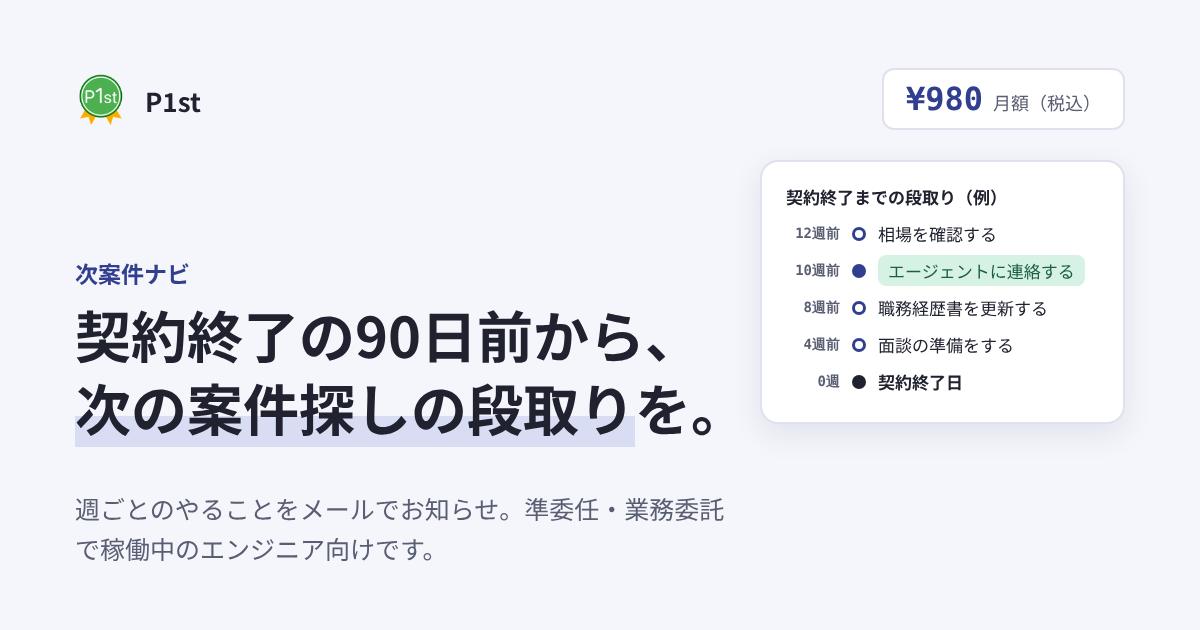
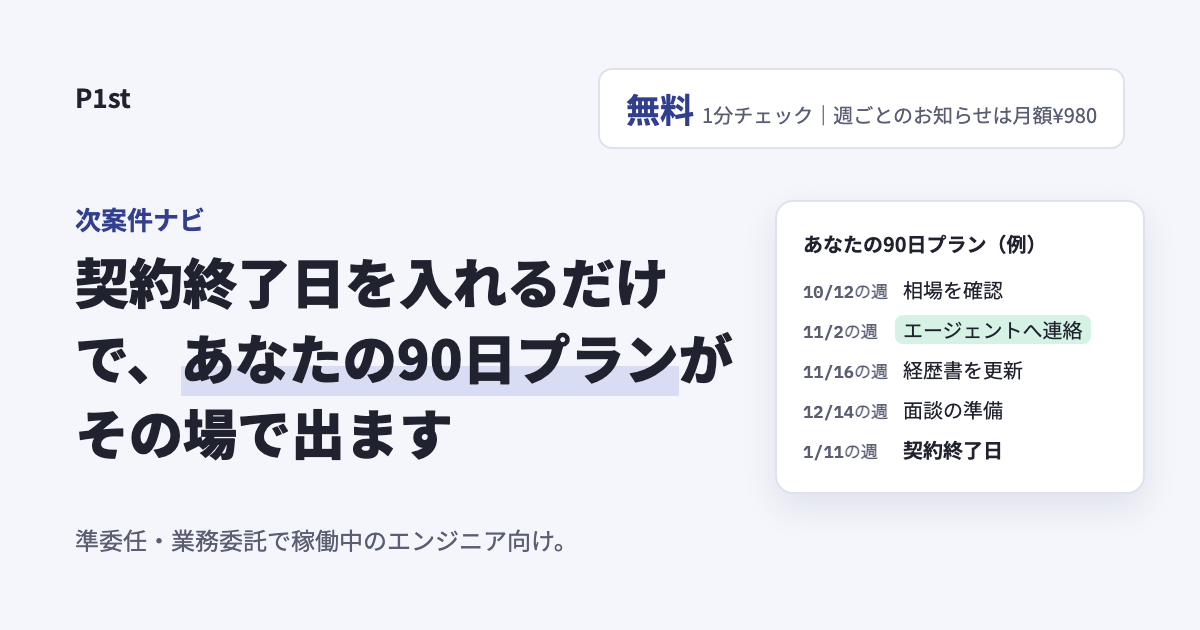
Align tsugianken-navi copy and og image with the free 1-minute check

diff --git a/tsugianken-navi/index.html b/tsugianken-navi/index.html
@@ -14,20 +14,20 @@
 <meta name="viewport" content="width=device-width, initial-scale=1.0">
 <link rel="icon" type="image/png" href="../favicon.png">
 <link rel="apple-touch-icon" href="../favicon.png">
-<title>次案件ナビ｜契約終了の90日前から、次の案件探しの段取りを週ごとに届けます。</title>
-<meta name="description" content="準委任・業務委託で稼働中のエンジニア向け。契約終了日を登録すると、相場の確認・エージェントへの連絡・職務経歴書の更新・面談の準備を、週ごとにメールでお知らせします。月額980円（税込）。案件の紹介や獲得の保証はしません。">
+<title>次案件ナビ｜契約終了日を入れるだけで、次の案件探しの90日プランがその場で出ます</title>
+<meta name="description" content="契約終了日を入れると、相場の確認・エージェントへの連絡・職務経歴書の更新・面談の準備の90日プランがその場で出ます（1分・無料）。週ごとのメールでのお知らせは月額980円（税込）。案件の紹介や獲得の保証はしません。">
 <meta property="og:type" content="website">
 <meta property="og:url" content="https://showcase.p1st.app/tsugianken-navi/">
 <meta property="og:site_name" content="P1st Startup Showcase">
 <meta property="og:locale" content="ja_JP">
-<meta property="og:title" content="次案件ナビ｜契約終了の90日前から、次の案件探しの段取りを週ごとに届けます。">
-<meta property="og:description" content="契約終了日を登録すると、相場の確認・エージェントへの連絡・職務経歴書の更新・面談の準備を、週ごとにメールでお知らせ。月額980円（税込）。案件の紹介や獲得の保証はしません。">
+<meta property="og:title" content="次案件ナビ｜契約終了日を入れるだけで、次の案件探しの90日プランがその場で出ます">
+<meta property="og:description" content="契約終了日を入れると、相場の確認・エージェントへの連絡・職務経歴書の更新・面談の準備の90日プランがその場で出ます（1分・無料）。週ごとのメールでのお知らせは月額980円（税込）。案件の紹介や獲得の保証はしません。">
 <meta property="og:image" content="https://showcase.p1st.app/og/tsugianken-navi.png">
 <meta property="og:image:width" content="1200">
 <meta property="og:image:height" content="630">
 <meta name="twitter:card" content="summary_large_image">
-<meta name="twitter:title" content="次案件ナビ｜契約終了の90日前から、次の案件探しの段取りを週ごとに届けます。">
-<meta name="twitter:description" content="契約終了日を登録すると、相場の確認・エージェントへの連絡・職務経歴書の更新・面談の準備を、週ごとにメールでお知らせ。月額980円（税込）。案件の紹介や獲得の保証はしません。">
+<meta name="twitter:title" content="次案件ナビ｜契約終了日を入れるだけで、次の案件探しの90日プランがその場で出ます">
+<meta name="twitter:description" content="契約終了日を入れると、相場の確認・エージェントへの連絡・職務経歴書の更新・面談の準備の90日プランがその場で出ます（1分・無料）。週ごとのメールでのお知らせは月額980円（税込）。案件の紹介や獲得の保証はしません。">
 <meta name="twitter:image" content="https://showcase.p1st.app/og/tsugianken-navi.png">
 <link rel="preconnect" href="https://fonts.googleapis.com">
 <link href="https://fonts.googleapis.com/css2?family=IBM+Plex+Mono:wght@500;600&family=Noto+Sans+JP:wght@400;500;700&display=swap" rel="stylesheet">
@@ -194,7 +194,7 @@
 <header class="top">
   <div class="container">
     <a class="logo" href="#top"><i>90</i>次案件ナビ</a>
-    <a class="nav-cta" href="#cta">月額980円で事前登録</a>
+    <a class="nav-cta" href="#cta">無料でプランを作る</a>
   </div>
 </header>
 
@@ -370,7 +370,7 @@
 <section>
   <div class="container">
     <div class="section-head">
-      <h2>次案件ナビ 月額980円（税込）</h2>
+      <h2>1分チェックは無料。週ごとのお知らせは月額980円（税込）。</h2>
     </div>
     <div class="pz">
       <div class="name">次案件ナビ（月額）</div>
@@ -381,7 +381,7 @@
         <li>いつでも解約できます。解約後は、次回以降の請求は発生しません</li>
       </ul>
     </div>
-    <p class="price-note">※ 正式リリース前のため、内容と料金は変更になる場合があります。事前登録された方には、リリース時に最初にご案内します。解約の方法は、リリース時にご案内します。</p>
+    <p class="price-note">※ 正式リリース前のため、内容と料金は変更になる場合があります。1分チェックをされた方には、リリース時に最初にご案内します。解約の方法は、リリース時にご案内します。</p>
   </div>
 </section>
 
@@ -400,15 +400,15 @@
     </details>
     <details>
       <summary>契約が複数ある場合は？</summary>
-      <p>最初は、1つの契約の終了日を登録する形を想定しています。複数の契約に対応するかは、事前登録いただいた方のご意見を見て決めます。</p>
+      <p>最初は、1つの契約の終了日を登録する形を想定しています。複数の契約に対応するかは、ご案内を希望された方のご意見を見て決めます。</p>
     </details>
     <details>
       <summary>通知はどのように届きますか？</summary>
       <p>登録のメールアドレスに、週1回、その週にやることをお知らせします。LINEなど、ほかの方法は、いまのところ予定していません。</p>
     </details>
     <details>
-      <summary>いつ課金されますか？解約できますか？</summary>
-      <p>事前登録の時点では課金されません。リリース後は月額980円（税込）で、いつでも解約できます。解約後は、次回以降の請求は発生しません。解約の方法は、リリース時にご案内します。</p>
+      <summary>どこから料金がかかりますか？解約できますか？</summary>
+      <p>1分チェック（90日プランの表示）は無料で、課金されません。週ごとのメールでのお知らせは、リリース後に月額980円（税込）で提供する予定で、いつでも解約できます。解約後は、次回以降の請求は発生しません。解約の方法は、リリース時にご案内します。</p>
     </details>
   </div>
 </section>
@@ -416,9 +416,9 @@
 <section id="cta">
   <div class="container">
     <div class="final-cta">
-      <span class="eyebrow">事前登録（登録時点では課金されません）</span>
+      <span class="eyebrow">無料の1分チェック（課金されません）</span>
       <h2>終了日が決まったら、段取りを先に並べておく。</h2>
-      <p>月額980円（税込）。事前登録いただいた方に、リリースの準備ができしだいご案内をお送りします。</p>
+      <p>プランは無料で作れます。週ごとのお知らせ（月額980円・税込）は、リリースの準備ができしだい、ご案内をお送りします。</p>
       <form class="signup-form" id="signupForm">
         <div>
           <label class="l" for="contractEndDate">契約終了日</label>
